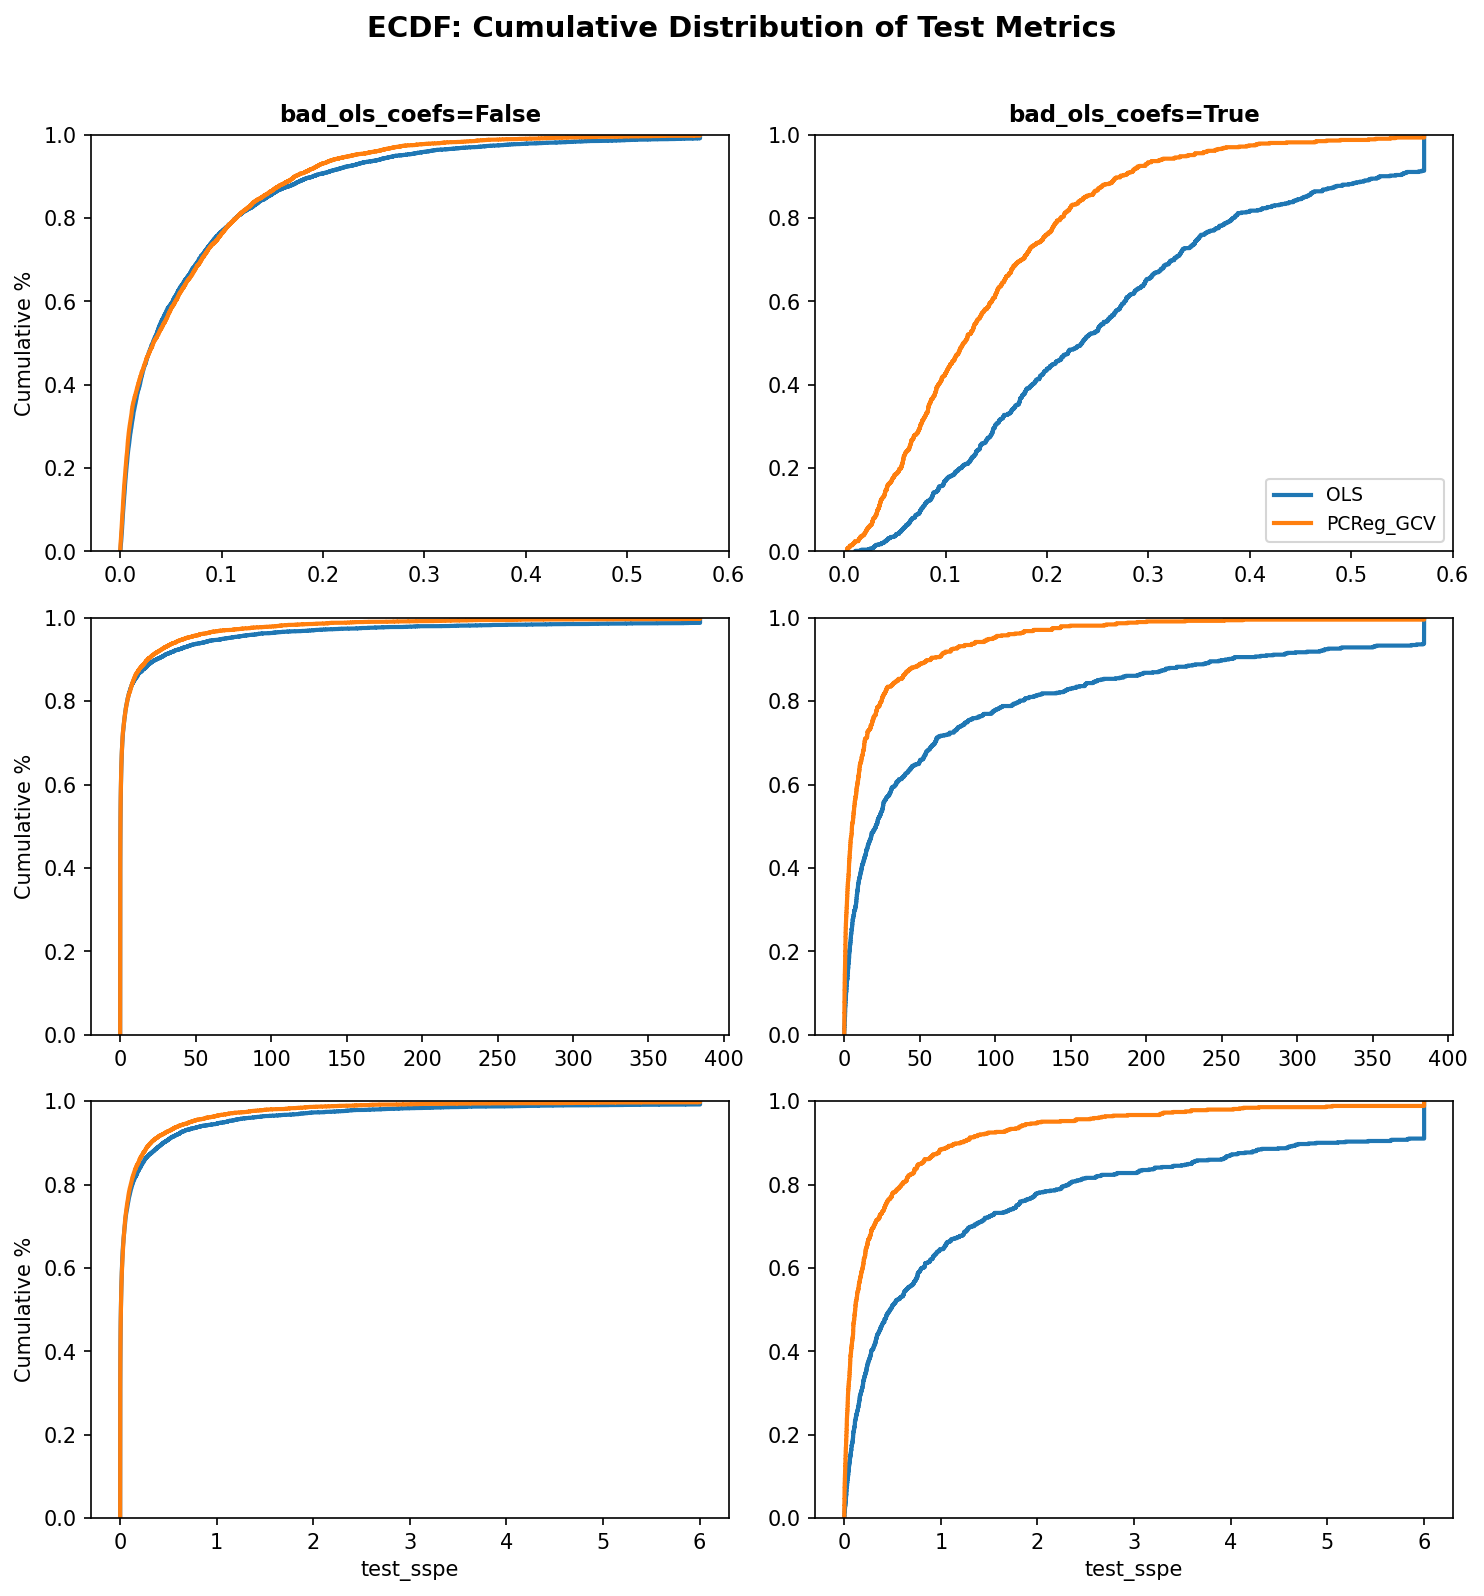
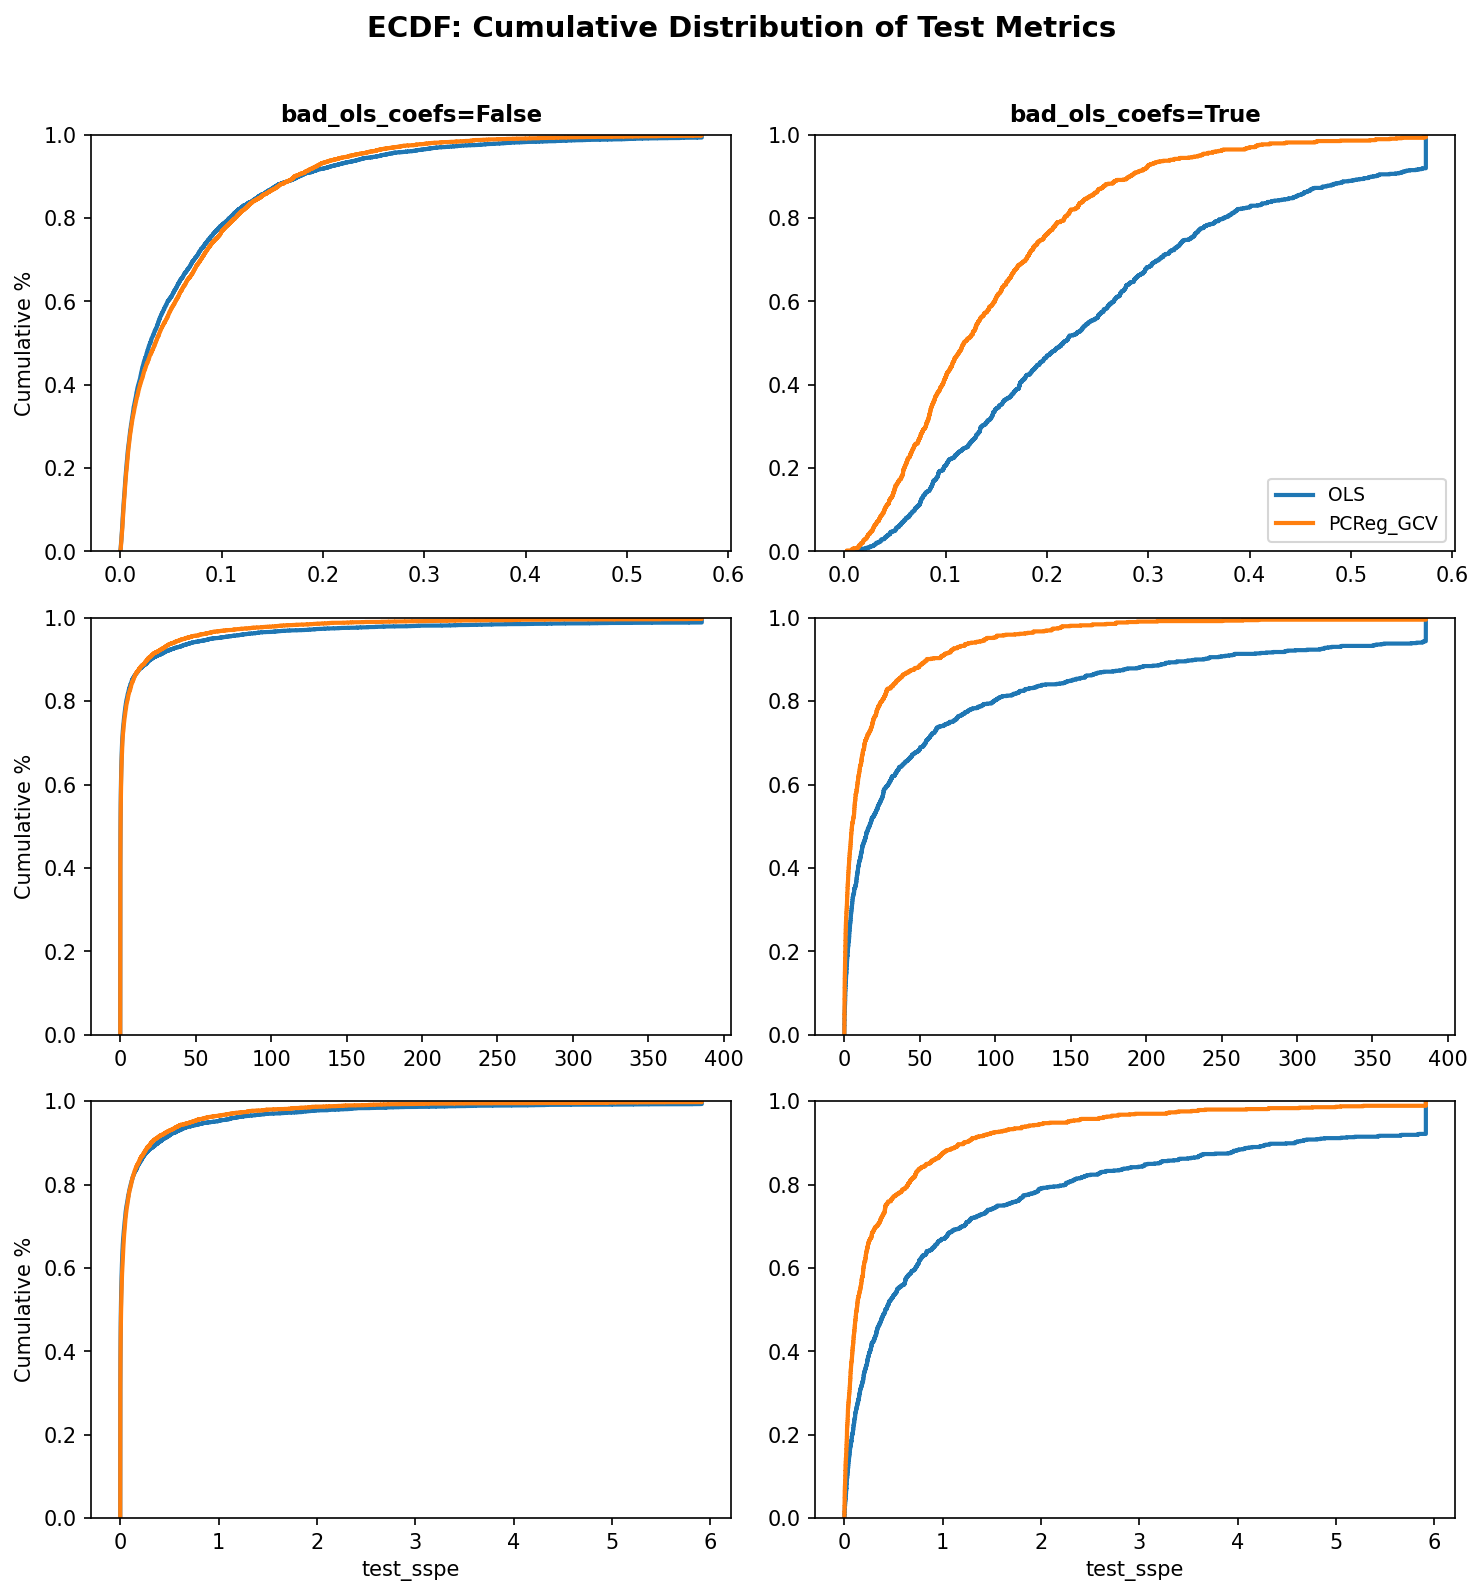
working ICEAA simulation

diff --git a/scripts/ICEAA/run_simulation.py b/scripts/ICEAA/run_simulation.py
@@ -64,7 +64,7 @@ CONFIG = {
     'cv_errors': [0.01, 0.1, 0.2],
     'learning_rates': [0.85, 0.90, 0.95],
     'rate_effects': [0.80, 0.85, 0.90],
-    'n_replications': 100,
+    'n_replications': 100, # 100 Replications ~50 minutes on 16-core machine 50 replications ~25 minutes
 
     # Fixed parameters
     'T1': 100,
@@ -654,8 +654,19 @@ def fit_and_extract(
     model : estimator
         Fitted model.
     """
+    # Convert model params to JSON string (handles non-serializable objects like np.log)
+    try:
+        import json
+        model_params_str = json.dumps(
+            {k: str(v) if callable(v) or not isinstance(v, (int, float, str, bool, list, dict, type(None))) else v
+             for k, v in model.get_params().items()}
+        )
+    except Exception:
+        model_params_str = str(model.get_params())
+
     result = {
         'model_name': model_name,
+        'model_params': model_params_str,
         'converged': True,
         'fit_time': 0.0,
     }
@@ -1008,31 +1019,33 @@ def load_completed_scenarios(output_dir: Path) -> Tuple[set, set]:
             return set(), set()
 
         # Build set of completed (scenario, model_hash) combinations
+        # Use vectorized operations instead of iterrows for speed
         scenario_cols = ['n_lots', 'actual_correlation', 'cv_error',
                          'learning_rate', 'rate_effect', 'replication', 'model_hash']
 
-        completed_scenario_models = set()
-        for _, row in df[scenario_cols].drop_duplicates().iterrows():
-            key = (row['n_lots'], row['actual_correlation'], row['cv_error'],
-                   row['learning_rate'], row['rate_effect'], row['replication'],
-                   row['model_hash'])
-            completed_scenario_models.add(key)
+        unique_df = df[scenario_cols].drop_duplicates()
+        completed_scenario_models = set(
+            zip(unique_df['n_lots'], unique_df['actual_correlation'], unique_df['cv_error'],
+                unique_df['learning_rate'], unique_df['rate_effect'], unique_df['replication'],
+                unique_df['model_hash'])
+        )
 
         # Find scenarios where ALL current models have been run
         scenario_only_cols = ['n_lots', 'actual_correlation', 'cv_error',
                               'learning_rate', 'rate_effect', 'replication']
-        completed_scenarios = set()
 
-        for _, row in df[scenario_only_cols].drop_duplicates().iterrows():
-            scenario_key = (row['n_lots'], row['actual_correlation'], row['cv_error'],
-                           row['learning_rate'], row['rate_effect'], row['replication'])
+        # Group by scenario and count unique model hashes
+        required_hashes = set(current_hashes.values())
+        n_required = len(required_hashes)
 
-            # Check if all current model hashes are present for this scenario
-            scenario_hashes = {h for (n, cor, cv, lr, re, rep, h) in completed_scenario_models
-                              if (n, cor, cv, lr, re, rep) == scenario_key}
+        # Get hashes per scenario using groupby (much faster than iterrows)
+        scenario_hash_counts = df.groupby(scenario_only_cols)['model_hash'].apply(
+            lambda x: required_hashes.issubset(set(x))
+        )
 
-            if set(current_hashes.values()).issubset(scenario_hashes):
-                completed_scenarios.add(scenario_key)
+        completed_scenarios = set(
+            scenario_hash_counts[scenario_hash_counts].index.tolist()
+        )
 
         return completed_scenario_models, completed_scenarios
 
@@ -1112,11 +1125,15 @@ def run_simulation(config: Dict, parallel: bool = True) -> Tuple[pd.DataFrame, p
     completed_scenario_models, completed_scenarios = load_completed_scenarios(output_dir)
 
     # Build list of (scenario_id, models_to_run) pairs
+    # Use vectorized approach: build scenario lookup table first
+    scenario_cols = ['scenario_id', 'n_lots', 'actual_correlation', 'cv_error',
+                     'learning_rate', 'rate_effect', 'replication']
+    scenario_lookup = simulation_df[scenario_cols].drop_duplicates('scenario_id').set_index('scenario_id')
+
     scenarios_with_models = []
     total_model_fits = 0
     for scenario_id in all_scenario_ids:
-        # Get scenario tuple for compatibility with completed tracking
-        row = simulation_df[simulation_df['scenario_id'] == scenario_id].iloc[0]
+        row = scenario_lookup.loc[scenario_id]
         scenario_tuple = (int(row['n_lots']), row['actual_correlation'], row['cv_error'],
                          row['learning_rate'], row['rate_effect'], int(row['replication']))
 
@@ -1192,7 +1209,7 @@ def run_simulation(config: Dict, parallel: bool = True) -> Tuple[pd.DataFrame, p
 
         print(f"  Saved {len(batch_results)} model fits")
         print(f"  Progress: {scenarios_done}/{n_to_run} ({100*scenarios_done/n_to_run:.1f}%)")
-        print(f"  Elapsed: {elapsed/60:.1f} min | ETA: {remaining/60:.1f} min")
+        print(f"  Elapsed: {elapsed/60:.1f} min | ETA: {remaining/60:.1f} min | Total Time: {(elapsed + remaining)/60:.1f} min")
         print()
 
     # Merge all batch files
@@ -1346,6 +1363,11 @@ if __name__ == "__main__":
 
     # Run simulation
     results_df, predictions_df = run_simulation(CONFIG, parallel=(CONFIG['n_jobs'] != 1))
+
+    # Run simulation_analysis.py
+    
+
+    # run 04_motivating_example.py to generate plots for motivation analysis
 
     # Save config
     output_dir = CONFIG['output_dir']

diff --git a/scripts/ICEAA/04_motivating_example.py b/scripts/ICEAA/04_motivating_example.py
@@ -56,19 +56,37 @@ def unit_space_prediction_fn(X: np.ndarray, params: np.ndarray) -> np.ndarray:
     T1, b, c = params[0], params[1], params[2]
     return T1 * (X[:, 0] ** b) * (X[:, 1] ** c)
 
-pc = pcreg.PenalizedConstrainedRegression(
+pc = pcreg.PenalizedConstrainedCV(
         coef_names=['T1', 'b', 'c'],
-        bounds={'T1': (0, None), 'b': (-.5, 0), 'c': (-5, 0)},
+        bounds={'T1': (0, None), 'b': (-0.5, 0), 'c': (-0.5, 0)},
         prediction_fn=unit_space_prediction_fn,
         fit_intercept=False,
-        x0=[1,0,0],
+        x0=[1, 0, 0],
         loss='sspe',
-        alpha=1, #np.logspace(-5, 0, 20)
-        l1_ratio=0,#[0, 0.5, 1],
-        #selection='gcv',
+        alphas=np.logspace(-5, 0, 10),  # Match simulation
+        l1_ratios=[0.0, 0.5, 1.0],       # Match simulation
+        cv=3,                             # Match simulation cv_folds
+        selection='gcv',
         penalty_exclude=['T1'],
-        #n_jobs=-1,
-        #verbose=0,
+        n_jobs=1,
+        verbose=0,
+        safe_mode=True
+    )
+
+pc_enet = pcreg.PenalizedConstrainedCV(
+        coef_names=['T1', 'b', 'c'],
+        bounds={'T1': (None, None), 'b': (None, None), 'c': (None, None)},
+        prediction_fn=unit_space_prediction_fn,
+        fit_intercept=False,
+        x0=[1, 0, 0],
+        loss='sspe',
+        alphas=np.logspace(-5, 0, 10),  # Match simulation
+        l1_ratios=[0.0, 0.5, 1.0],       # Match simulation
+        cv=3,                             # Match simulation cv_folds
+        selection='gcv',
+        penalty_exclude=['T1'],
+        n_jobs=1,
+        verbose=0,
         safe_mode=True
     )
 
@@ -78,14 +96,54 @@ ols_lc, ols_rc=2**ols.regressor_.named_steps['reg'].coef_
 ols_t1 = np.exp(ols.regressor_.named_steps['reg'].intercept_)
 
 print("OLS R^2:", ols.score(X, y))
-print("OLS Coefficients:", ols_t1, ols_lc, ols_rc)
+print("OLS Coefficients (T1, LC, RC):", ols_t1, ols_lc, ols_rc)
+
+# Check if OLS produces "bad" coefficients (LC > 1 or RC > 1 is economically impossible)
+bad_ols = (ols_lc > 1) or (ols_rc > 1)
+print(f"OLS has impossible coefficients (LC>1 or RC>1): {bad_ols}")
 
 
 pc.fit(X, y)
+pc_enet.fit(X, y)
+
+# Hyperparameters selected by GCV (may vary slightly from simulation due to numeric precision)
+# Simulation results for this seed: alpha=1.0, l1_ratio=0.0
+print(f"PCRegGCV selected alpha: {pc.alpha_}")
+print(f"PCRegGCV selected l1_ratio: {pc.l1_ratio_}")
+
 pc_lc, pc_rc = 2**pc.coef_[1], 2**pc.coef_[2]
 pc_t1 = pc.coef_[0]
+
+pc_enet_lc, pc_enet_rc = 2**pc_enet.coef_[1], 2**pc_enet.coef_[2]
+pc_enet_t1 = pc_enet.coef_[0]
+
+
 # print Score and coefficients
 print("PCRegGCV R^2:", pc.score(X, y))
-print("PCRegGCV Coefficients:", pc_t1, pc_lc, pc_rc)
+print("PCRegGCV Coefficients (T1, LC, RC):", pc_t1, pc_lc, pc_rc)
+
+# print Score and coefficients
+print("PCRegGCV Enet (No Constraints) R^2:", pc_enet.score(X, y))
+print("PCRegGCV Enet (No Constraints) Coefficients (T1, LC, RC):", pc_enet_t1, pc_enet_lc, pc_enet_rc)
+
+
+# Check if PCReg respects constraints (LC <= 1 and RC <= 1)
+pcreg_valid = (pc_lc <= 1) and (pc_rc <= 1)
+print(f"PCReg respects economic constraints (LC<=1 and RC<=1): {pcreg_valid}")
 
 pc.summary()
+
+# Summary of the motivating example
+print("\n" + "="*60)
+print("MOTIVATING EXAMPLE SUMMARY")
+print("="*60)
+print(f"OLS produces impossible coefficients: {bad_ols}")
+print(f"  - OLS LC (learning curve): {ols_lc:.4f} {'> 1 (INVALID)' if ols_lc > 1 else '<= 1 (valid)'}")
+print(f"  - OLS RC (rate effect): {ols_rc:.4f} {'> 1 (INVALID)' if ols_rc > 1 else '<= 1 (valid)'}")
+print(f"PCReg respects constraints: {pcreg_valid}")
+print(f"  - PCReg LC: {pc_lc:.4f} <= 1 (valid)")
+print(f"  - PCReg RC: {pc_rc:.4f} <= 1 (valid)")
+print(f"\nBoth models achieve similar R^2 on training data:")
+print(f"  - OLS R^2: {ols.score(X, y):.4f}")
+print(f"  - PCReg R^2: {pc.score(X, y):.4f}")
+print("="*60)

diff --git a/scripts/ICEAA/sumulation_analysis.py b/scripts/ICEAA/sumulation_analysis.py
@@ -24,8 +24,9 @@ METRICS_TO_COMPARE = [
 
 # find seeds where OLS produces "bad" coefficients but good R2
 def find_bad_ols_coefs(df, r2=.8):
-    seeds = df.query("(LC_est>1 | RC_est>1) and r2>0.8 and model_name=='OLS'")["seed"].unique()
-    df = df.assign(bad_ols_coefs=lambda x: x["seed"].isin(seeds))
+    seeds = df.query("(LC_est>1 | RC_est>1 | LC_est <.7 | RC_est<.7) and r2>0.8 and model_name=='OLS'")["seed"].unique()
+    seeds_all = df.query("(LC_est>1 | RC_est>1 | LC_est <.7 | RC_est<.7) and r2>0.8 and not model_name.str.contains('PC')")["seed"].unique()
+    df = df.assign(bad_ols_coefs=lambda x: x["seed"].isin(seeds), bad_non_pc_coefs=lambda x: x["seed"].isin(seeds_all))
     return df
 
 def find_good_pcreg_fits(df, r2=.8):
@@ -78,15 +79,22 @@ df.to_csv(PARENT / "Output_v2" / f"simulation_results_extended_{filename}.csv", 
 df_study_data = pd.read_parquet(RESULTS_PATH.parent / "simulation_study_data.parquet")
 
 # motivational example is a run where OLS has very bad test_mape but PCReg is best and has a good test_mape
-motivational_example_results = df.sort_values('test_mape').query("bad_ols_coefs==1 and model_name.str.contains('PC') and LC_est <1 and RC_est<1 and alpha>0").reset_index().loc[0]
-df_motivational = df_study_data.query("seed==@motivational_example_results.seed")
+motivational_example_results = df.sort_values('test_mape').query("bad_ols_coefs==1 and model_name.str.contains('PC') and (.80<LC_est <=.95) and (.80<RC_est<=.95) and alpha>0 and r2>.85 and T1_error <5").reset_index()
+motivational_example_results.to_csv(PARENT / "Output_v2" / "motivational_example_simulation_results.csv", index=False)
+example_seed = motivational_example_results.loc[0, 'seed']
+df_motivational = df_study_data.query("seed==@example_seed")
+
+# write the motivational example data to csv
 df_motivational.to_csv(PARENT / "Output_v2" / "motivational_example_data.csv", index=False)
-print("Motivational example Results:", df.query("seed==@motivational_example_results.seed").T)
+motivational_example_results.to_csv(PARENT / "Output_v2" / "motivational_example_simulation_results.csv", index=False)
 
 
-
+print("Motivational example Results:", df.query("seed==@example_seed").T)
 print("motivational example study data:")
-print(df_study_data.query("seed==@motivational_example_results.seed"))
+print(df_study_data.query("seed==@example_seed"))
+
+
+
 def DecisionTree(df, feature_columns=None):
     '''Create a decision tree to determine what model to use based on simulation parameters'''
     from sklearn.tree import DecisionTreeClassifier
@@ -159,7 +167,7 @@ for i, metric in enumerate(metrics):
 fig.suptitle("Violin Plots: Distribution of Test Metrics by Model", fontsize=14, fontweight='bold', y=1.01)
 plt.tight_layout()
 plt.savefig(PARENT / "Output_v2" / "violin_plots.png", dpi=150, bbox_inches='tight')
-plt.show()
+#plt.show()
 
 # ============================================================
 # Option 2: ECDF (Cumulative Distribution) - shows % below threshold
@@ -189,7 +197,7 @@ for i, metric in enumerate(metrics):
 fig.suptitle("ECDF: Cumulative Distribution of Test Metrics", fontsize=14, fontweight='bold', y=1.01)
 plt.tight_layout()
 plt.savefig(PARENT / "Output_v2" / "ecdf_plots.png", dpi=150, bbox_inches='tight')
-plt.show()
+#plt.show()
 
 # ============================================================
 # Option 3: KDE overlay - smooth density comparison
